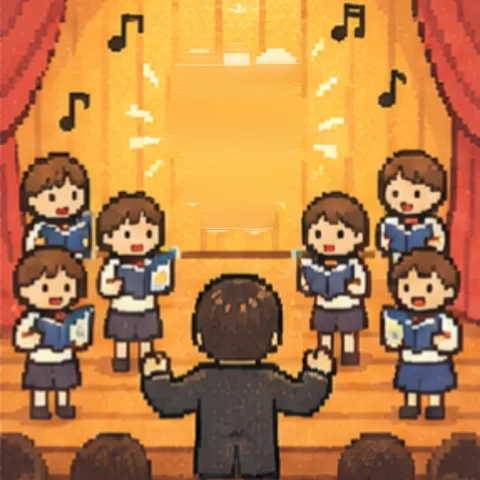
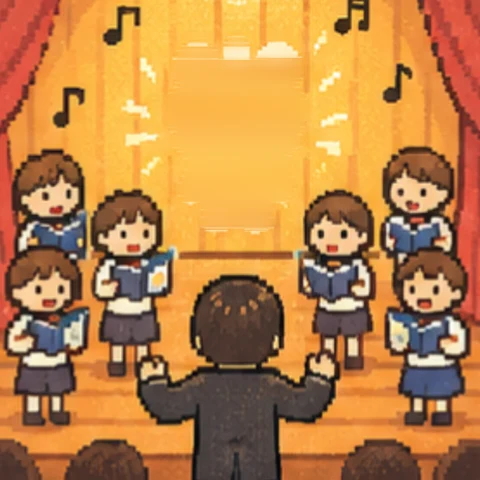
TV: anchor second pixel frame to the first, shorter channel static
Claude-Session: https://claude.ai/code/session_01QrtzVxwKX6HSx8noFFCCLz

diff --git a/scenes.js b/scenes.js
@@ -231,9 +231,9 @@ function model(F, f){
 
 const SCENES = [
   {key:'choir', ch:'CH.07 音樂台', kick:'藝文現場', head:'市民合唱團獻唱', draw:choir,
-    pix:['scenes/choir-a.webp','scenes/choir-b.webp'], fl:{x:237, base:228, h:172}},
+    pix:['scenes/choir-a.webp','scenes/choir-b.webp'], fl:{x:237, base:226, h:176}},
   {key:'kids',  ch:'CH.12 教育台', kick:'校園報導', head:'全校小朋友寫生', draw:kids,
-    pix:['scenes/kids-a.webp','scenes/kids-b.webp'], fl:{x:225, base:424, h:128}},
+    pix:['scenes/kids-a.webp','scenes/kids-b.webp'], fl:{x:224, base:427, h:132}},
   {key:'lab',   ch:'CH.21 科學台', kick:'科學新知', head:'研究室全力分析中', draw:lab},
   {key:'farm',  ch:'CH.05 農業台', kick:'農業報導', head:'農友試種成功', draw:farm},
   {key:'home',  ch:'CH.33 生活台', kick:'居家生活', head:'客廳掛畫新寵兒', draw:home},

diff --git a/sw.js b/sw.js
@@ -1,5 +1,5 @@
 // Network-first for the app shell so updates show up right away; cached copy when offline.
-const CACHE = 'growtion-v50';
+const CACHE = 'growtion-v51';
 const SHELL = ['./', 'index.html', 'config.js', 'flowers.js', 'scenes.js','scenes/kids-a.webp','scenes/kids-b.webp','scenes/choir-a.webp','scenes/choir-b.webp', 'manifest.webmanifest', 'growtion-icon-180.png', 'fonts/Cubic_11.woff2', 'fonts/GlowSansUI-Medium.woff2', 'fonts/GlowSansUI-Bold.woff2'];
 self.addEventListener('install', e => { e.waitUntil(caches.open(CACHE).then(c => c.addAll(SHELL))); self.skipWaiting(); });
 self.addEventListener('activate', e => { e.waitUntil(caches.keys().then(ks => Promise.all(ks.filter(k => k !== CACHE).map(k => caches.delete(k))))); self.clients.claim(); });

diff --git a/index.html b/index.html
@@ -1077,7 +1077,7 @@ button.sync{font:inherit;border:0;cursor:pointer}
       for(let i = 0; i < d.data.length; i += 4){ const y = (i/4/96)|0, v = Math.random()*255*(Math.abs(y-roll) < 6 ? .5 : 1);
         d.data[i] = d.data[i+1] = d.data[i+2] = v; d.data[i+3] = 255; }
       x.putImageData(d, 0, 0);
-      if(t - t0 < 180) requestAnimationFrame(step); else { nz.hidden = true; done(); }
+      if(t - t0 < 80) requestAnimationFrame(step); else { nz.hidden = true; done(); }
     })(t0);
   }
   setInterval(() => {   // swap the two drawings of the current scene
